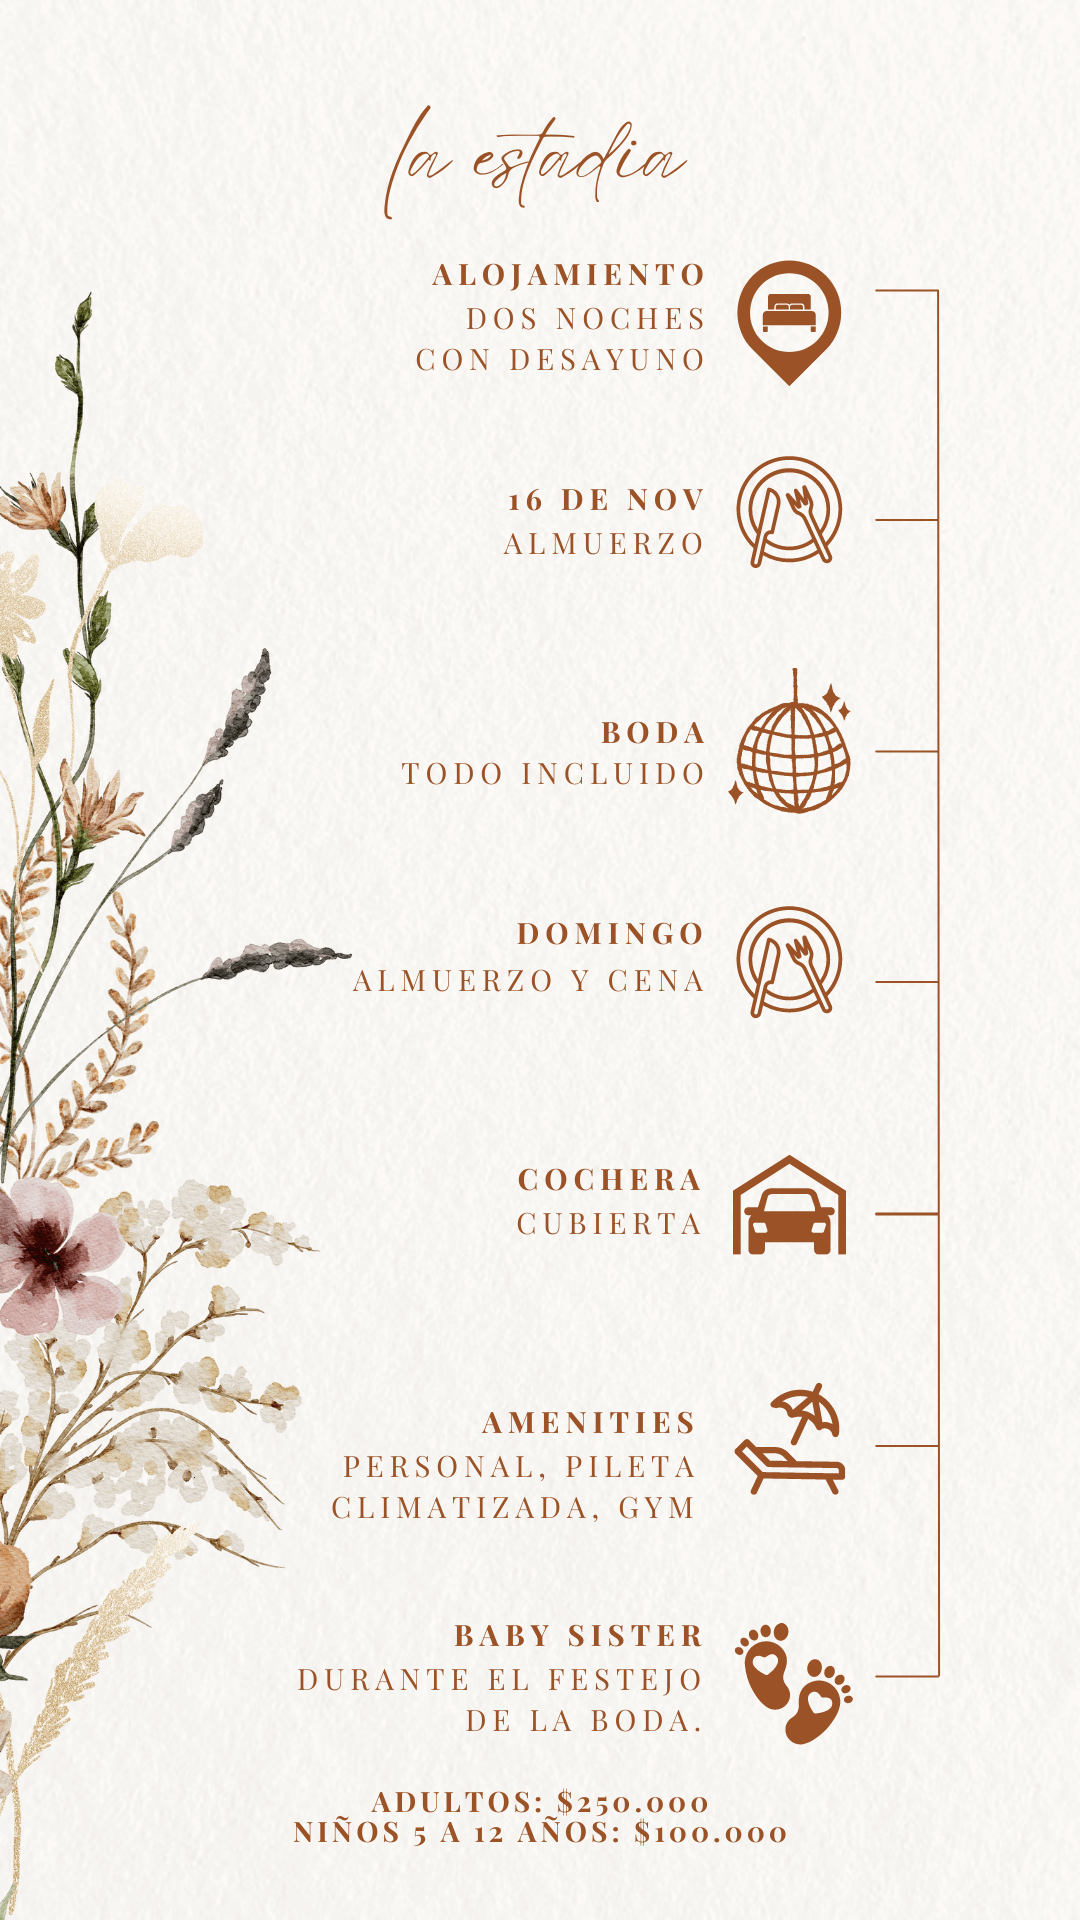
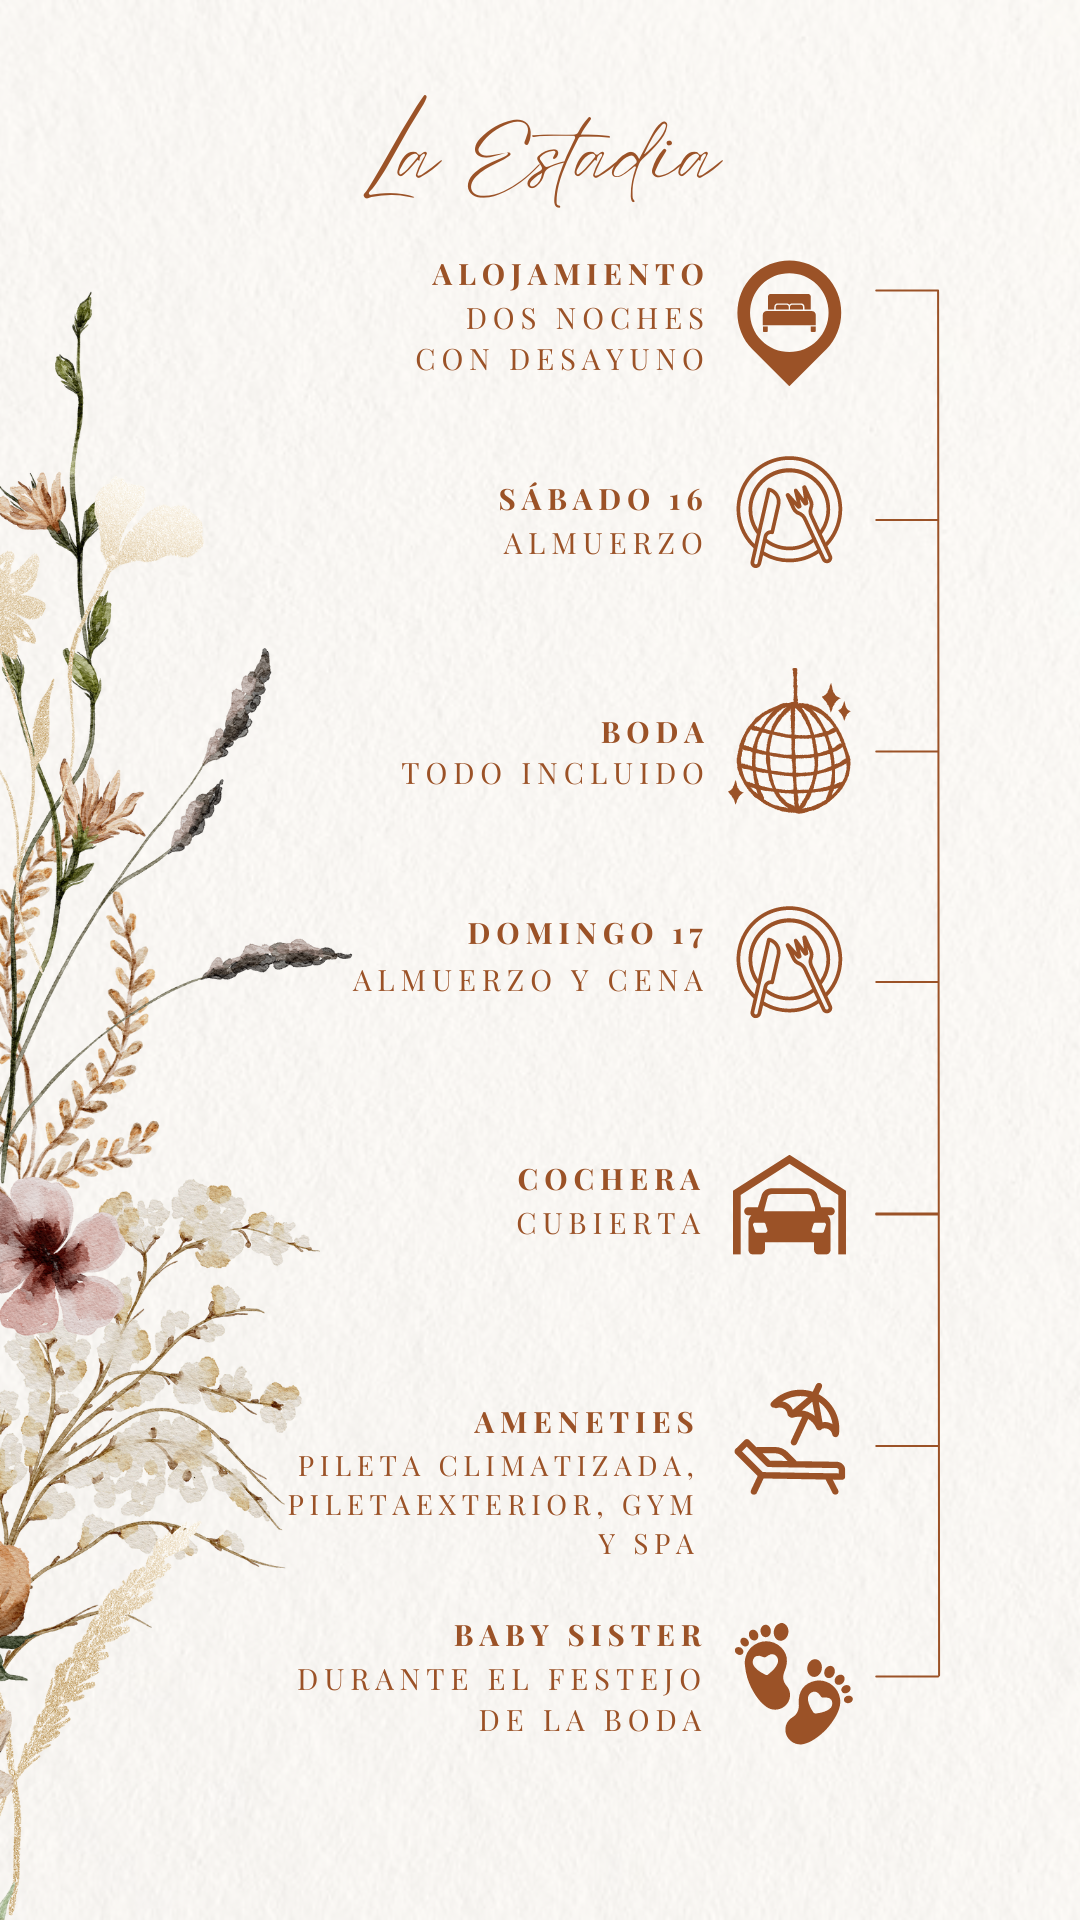
ac
ac

diff --git a/index.html b/index.html
@@ -53,7 +53,7 @@
             <p data-aos="fade-in" >Una antigua leyenda cuenta que… cuando nacen dos personas destinadas a tener un lazo afectivo se entreteje un hilo rojo invisible tan fuerte que no va a romperse en ningún caso.
       </p>
             <p data-aos="fade-in" >
-              Este cordón mágico puede estirarse, contraerse, desgastarse o enredarse pero nunca romper, muestra del vínculo que existe y existirá entre los dos, para siempre! 
+              Este cordón mágico puede estirarse, contraerse, desgastarse o enredarse pero nunca romper, muestra del vínculo que existe y existirá entre los dos... PARA SIEMPRE! 
                 
             </p>
             
@@ -71,7 +71,8 @@
           <img class="icon"  src="./figuras/fiesta.png" alt="fiesta">
           <h2>FIESTA</h2>
             <p>Te invitamos a celebrar nuestra boda desde el 16 de noviembre al 18 de noviembre.  <br> HOSTAL CRUZ CHICA - La Cumbre.</p>
-            <p>Ingreso al hostal el día sábado 16 al horario que deseen. Late check out día lunes 18, free hasta las 17 hs.</p>
+            <p>Ingreso al hostal: Día sábado 16 - al horario que deseen. <br>
+              Late check out: Día lunes 18 - hasta las 17 hs.</p>
             <a class="boton" href="https://www.google.com/maps?gs_lcrp=EgZjaHJvbWUyBggAEEUYOTIICAEQABgWGB4yCAgCEAAYFhgeMggIAxAAGBYYHjIICAQQABgWGB4yCggFEAAYgAQYogQyCggGEAAYogQYiQUyCggHEAAYgAQYogTSAQcyNTVqMGo3qAIAsAIA&um=1&ie=UTF-8&fb=1&gl=ar&sa=X&geocode=KRPXg1R5hS2UMboT6oE_dpbb&daddr=Av.+Bartolome+Jaime+760,+La+Cumbre,+C%C3%B3rdoba">COMO LLEGAR</a>
         </div>
         <!--
@@ -98,42 +99,42 @@
         
     </div>
 
-    <div class="ubicacion">
-        <div data-aos="fade-up"  class="ubicacion-bloque">
-            <img class="icon" src="./figuras/instagram.png" alt="instagram">
-            <h2>INSTAGRAM</h2>
-            <p>¡No nos queremos perder de nada!. Compartí las fotos y videos de la fiesta usando nuestro hashtag.</p>
-            <a class="boton" href="https://www.instagram.com/explore/tags/aleygime/?img_index=1">#ALEYGIME</a>
-        </div>
-        <div data-aos="fade-up"  class="ubicacion-bloque">
-            <img class="icon"  src="./figuras/spotify.png" alt="playlist">
-            <h2>PLAYLIST</h2>
-            <p>No hay boda sin fiesta, ayudanos a elegir la música de la boda.</p>
-            <a class="boton" href="https://www.youtube.com/playlist?list=PLscikFIyLh66jniFxhejSwNMeJ_RG0RvL&jct=4eKJV7rSxP3_C6vNQBxIcsa6yF-wPw">  PLAYLIST  </a>
-        </div>
-    </div>
+    <div class="caja">
+      <div data-aos="fade-in" class="ubicacion-bloque dos" >
+          <img class="icon"  src="./figuras/giftcard.png" alt="giftcard">
+          <h2>MESA DE REGALOS</h2>
+          <p>El mejor regalo que nos pueden hacer es acompañarnos en este momento tan especial para nosotros. <br>
+            <br> Para asegurarnos de que todos puedan participar sin preocupaciones, hemos establecido un plan de pago amigable que costee el total de la estadia. <br>  <br>Aquí están los detalles: <br>
+              Adultos: $250.000 por persona. <br>
+              Niños (de 5 a 12 años): $100.000 por persona. <br><br>  <strong class="strong"> Plan de Pago adultos: <br>
+             En 5 cuotas de $50.000 cada una. <br> Plan de pago niños: <br> En 5 cuotas de $20.000 cada una. <br> </strong> <br> Abonar dichas cuotas del 1 al 10 de cada mes de Junio a Octubre.</p>
+         
+          <a class="boton" onclick="copyToClipboard('0000003100047876009371')" >CBU</a>
+          <a class="boton" onclick="copyToClipboard('GIMENA.DANTE')">ALIAS</a> <br><br>
+          <p>Hace clic para copiar los datos de nuestra cuenta. <br> Titular: Gimena Dante</p>
+      </div>
+  </div>
   <div class="galeria">
       <img class="f1" src="./img-editables/4.png" alt="Novios">
       <img class="f2" src="./img-editables/5.png" alt="Novios">
       <img class="f4" src="./img-editables/4.png"  alt="Novios">
       <img class="f4" src="./img-editables/5.png"  alt="Novios">
   </div>
-
-    <div class="caja">
-        <div data-aos="fade-in" class="ubicacion-bloque dos" >
-            <img class="icon"  src="./figuras/giftcard.png" alt="giftcard">
-            <h2>MESA DE REGALOS</h2>
-            <p>El mejor regalo que nos pueden hacer es acompañarnos en este momento tan especial para nosotros. <br>
-              <br> Para asegurarnos de que todos puedan participar sin preocupaciones, hemos establecido un plan de pago amigable que costee el total de la estadia. <br> <br>Aquí están los detalles: <br>
-              Adultos: $250.000 por persona. <br>
-              Niños (de 5 a 12 años): $100.000 por persona. <br><br> Plan de Pago: <br>
-              Hemos dividido el pago en 5 cuotas de $50.000 cada una para abonar del 1 al 10 de cada mes de Mayo a Septiembre.</p>
-           
-            <a class="boton" onclick="copyToClipboard('0000003100047876009371')" >CBU</a>
-            <a class="boton" onclick="copyToClipboard('GIMENA.DANTE')">ALIAS</a> <br><br>
-            <p>Hace clic para copiar los datos de nuestra cuenta. <br> Titular: Gimena Dante</p>
-        </div>
+  <div class="ubicacion">
+    <div data-aos="fade-up"  class="ubicacion-bloque">
+        <img class="icon" src="./figuras/instagram.png" alt="instagram">
+        <h2>INSTAGRAM</h2>
+        <p>¡No nos queremos perder de nada!. Compartí las fotos y videos de la fiesta usando nuestro hashtag.</p>
+        <a class="boton" href="https://www.instagram.com/explore/tags/aleygime/?img_index=1">#ALEYGIME</a>
     </div>
+    <div data-aos="fade-up"  class="ubicacion-bloque">
+        <img class="icon"  src="./figuras/spotify.png" alt="playlist">
+        <h2>PLAYLIST</h2>
+        <p>No hay boda sin fiesta, ayudanos a elegir la música de la boda.</p>
+        <a class="boton" href="https://www.youtube.com/playlist?list=PLscikFIyLh66jniFxhejSwNMeJ_RG0RvL&jct=4eKJV7rSxP3_C6vNQBxIcsa6yF-wPw">  PLAYLIST  </a>
+    </div>
+</div>
+
     <div data-aos="fade-in"  class="ubicacion-bloque tres" >
         <img class="icon" src="./figuras/asistencia.png" alt="asistencia">
         <h2 >RSVP</h2>
@@ -141,7 +142,7 @@
        
         <div class="rsvpbotones">
             <a class="boton1" href="https://forms.gle/1Q9eZ98H24aNkv4U9">CONFIRMAR</a> 
-            <a  class="boton1" href="http://evt.to/eaiomeuaw">AGENDAR</a>
+            <a  class="boton1" href="https://calendar.app.google/EmeEEJhQhKnKBKPT9">AGENDAR</a>
         </div>
     </div>
 

diff --git a/style.css b/style.css
@@ -220,13 +220,15 @@ header {
 .timing { 
     width: 100%;
     height: 90vh;
-    background-image: url(./img-editables/timingpc.jpg);
+    background-image: url(./img-editables/timingpc.png);
     background-position: center;
     background-size: cover;
     background-repeat: no-repeat;
     
 }
-
+.strong {
+    font-size: 1.1em;
+}
 .dresscode {
     width: 100%;
     background-color: var(--color-secundario);
